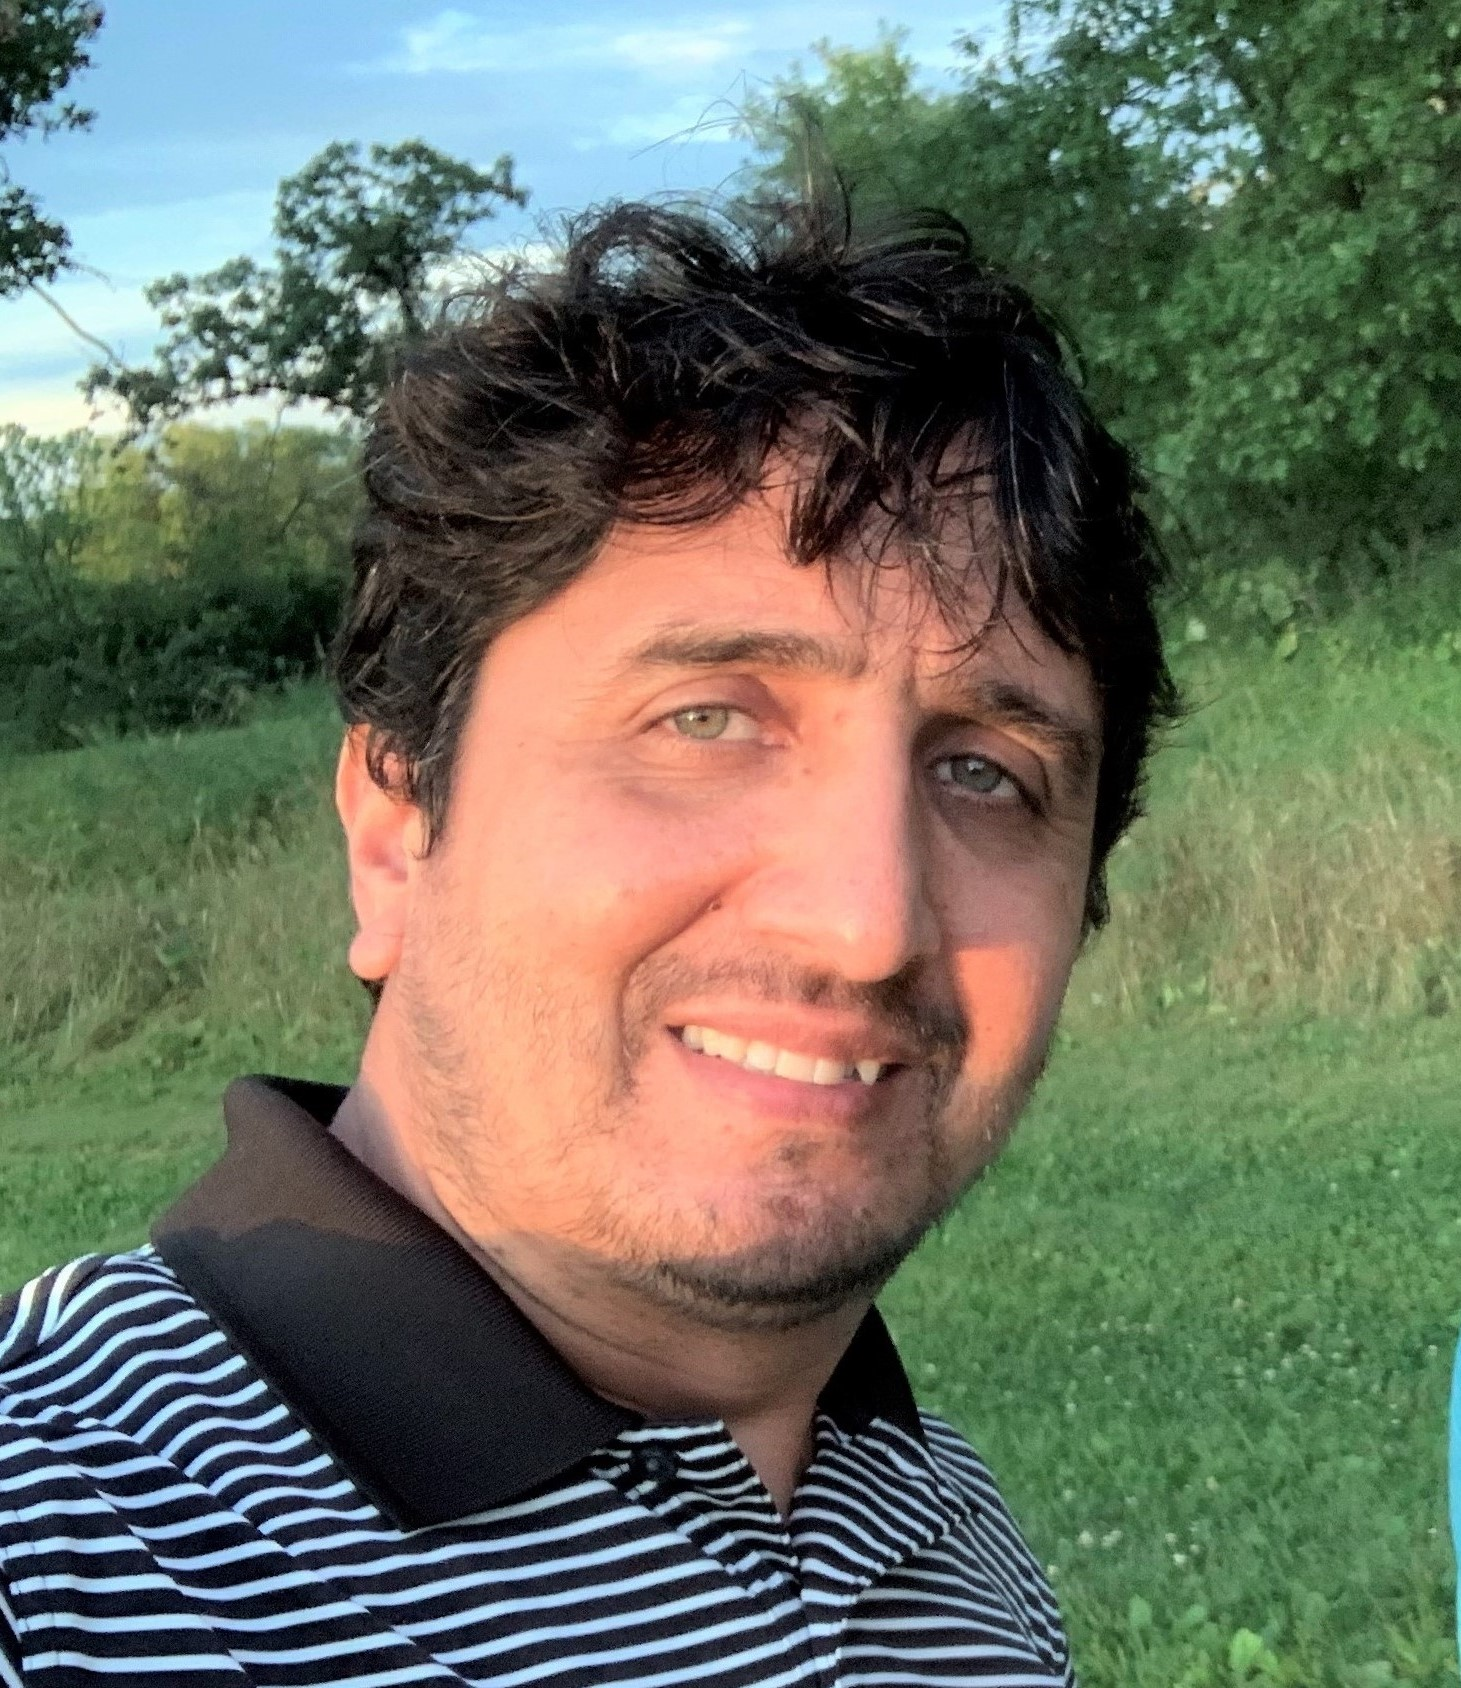
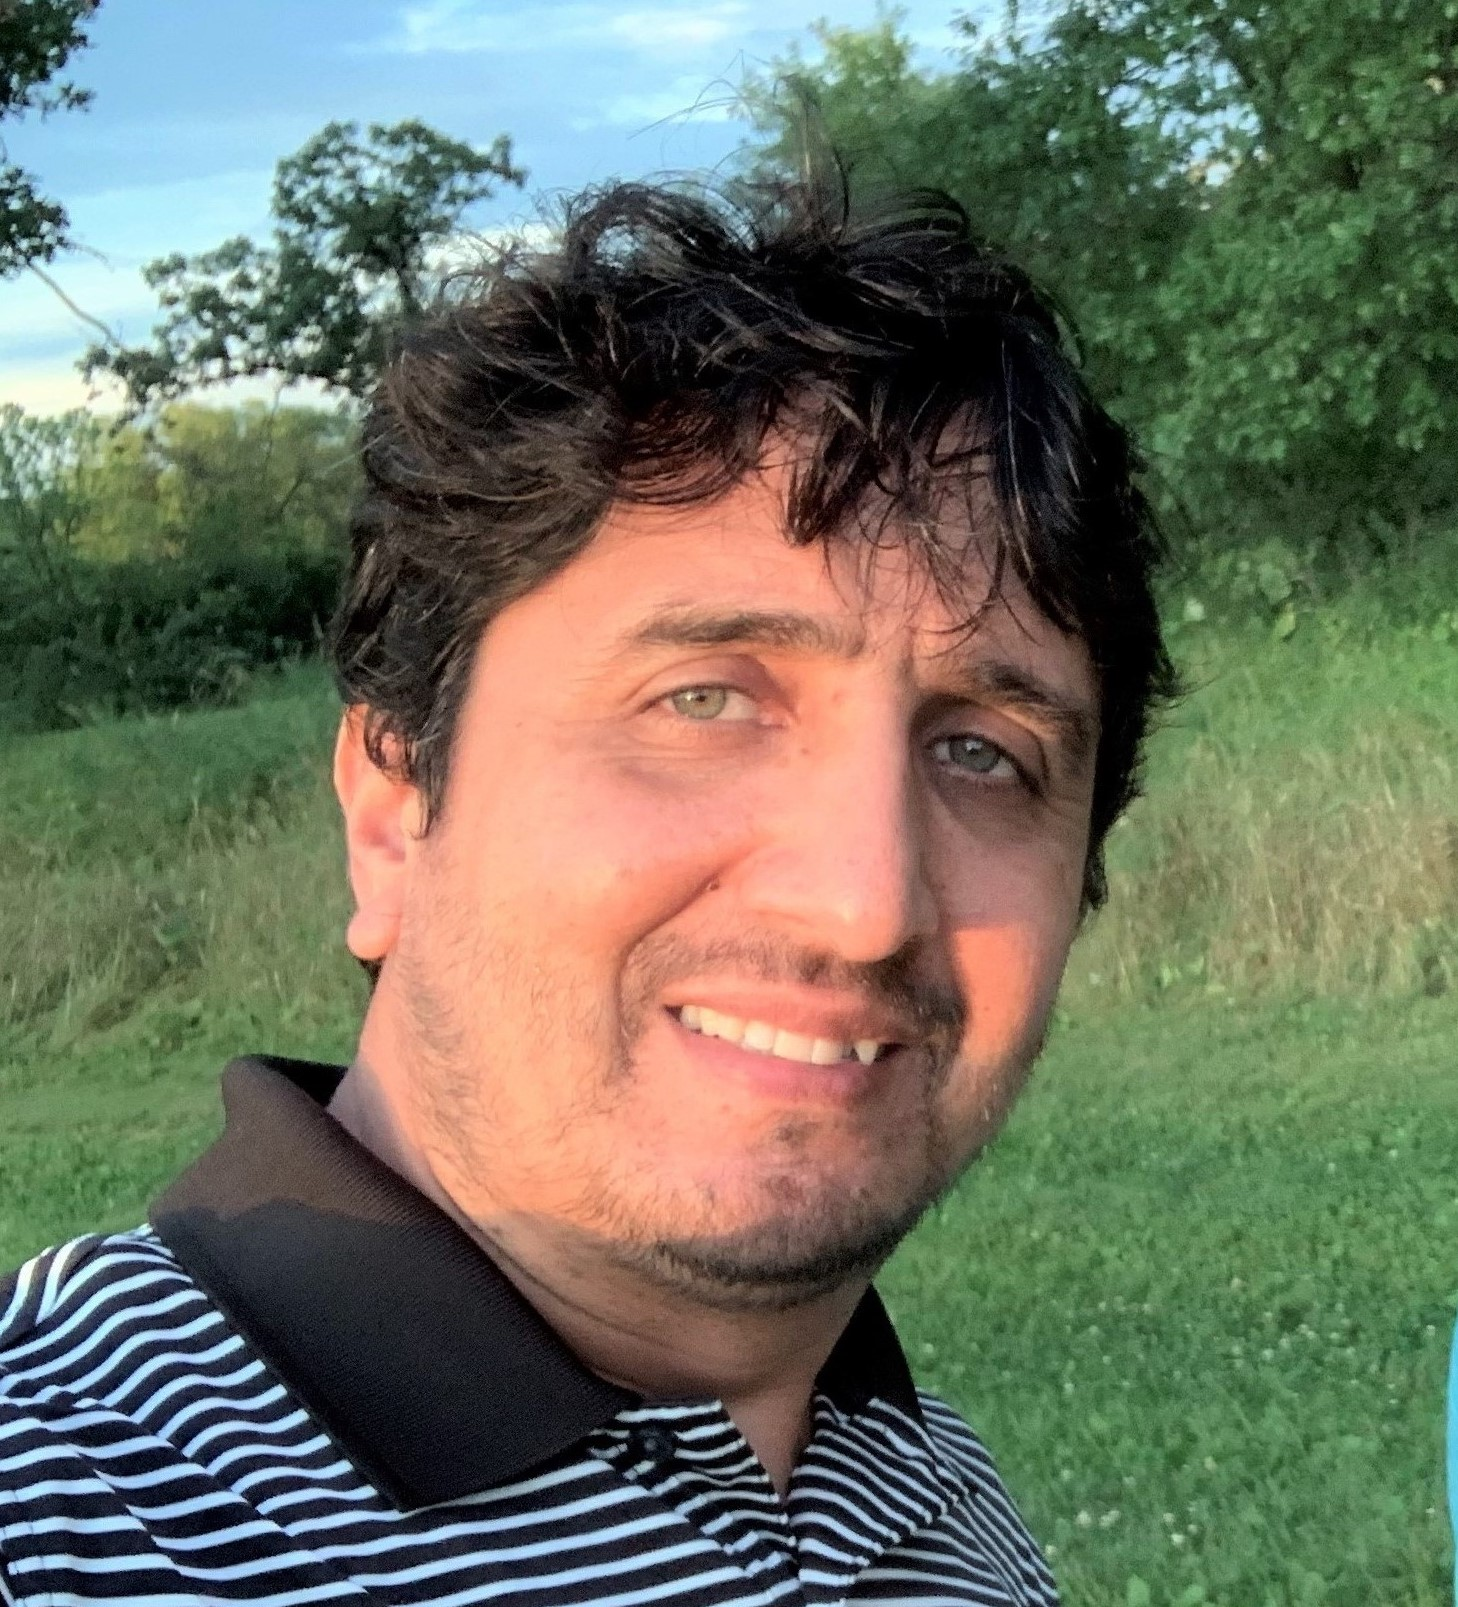
.

diff --git a/index.html b/index.html
@@ -19,7 +19,7 @@
     <div class="container">
       <div class="row">
         <div class="col-lg-12" style="height:auto;  text-align:center;">
-        <img src="contents/photo.png" alt="professional photo" style="width:245px; height:260px; border-radius:50%; margin-top:40px; box-shadow:2px 1px 1px 0px lightgray; border:1.8px solid yellow;" ><br><br>
+        <img src="contents/photo.png" alt="professional photo" style="width:235px; height:260px; border-radius:50%; margin-top:40px; box-shadow:2px 1px 1px 0px lightgray; border:1.8px solid yellow;" ><br><br>
 
           <h1 style="font-size:62px; color:white;text-align:center;"><b>Abdullah Ameen</b></h1><br>
           <h4 style="color:white; text-align:center;"><b>Cartographer| GIS Analyst| Civil Engineer| Educator</b></h4><br><br><br>
